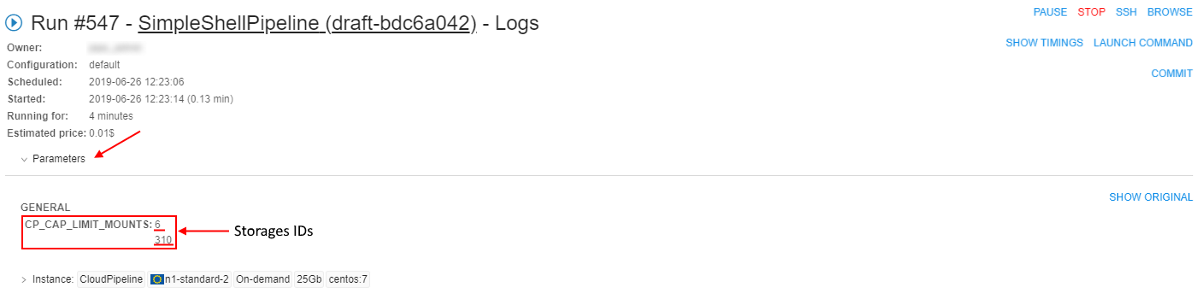
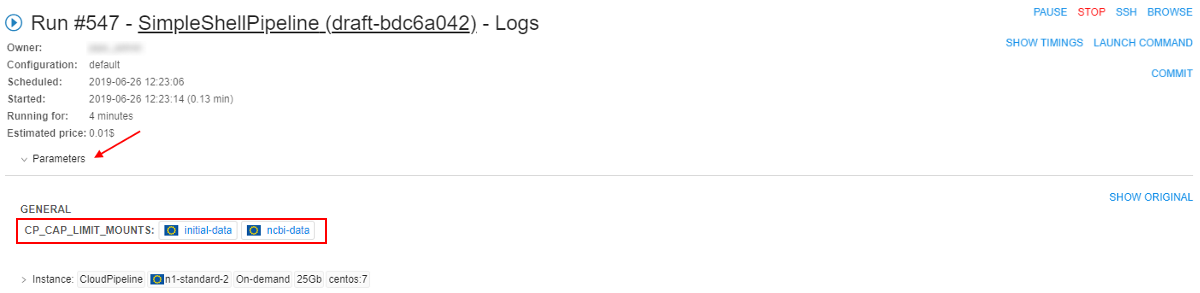
Updates for 'Limit mounts' were added into RN and docs

Changed region(s): [[0.0, 0.6758, 0.2775, 0.8601]]

diff --git a/docs/md/release_notes/v.0.17/v.0.17_-_Release_notes.md b/docs/md/release_notes/v.0.17/v.0.17_-_Release_notes.md
@@ -8,6 +8,7 @@
 - [Export custom user's attributes](#export-custom-users-attributes)
 - [User management and export in read-only mode](#user-management-and-export-in-read-only-mode)
 - ["All pipelines" and "All storages" repositories](#all-pipelines-and-all-storages-repositories)
+- [Updates of "Limit mounts" for object storages](#updates-of-limit-mounts-for-object-storages)
 
 ***
 
@@ -327,6 +328,41 @@ In the current version, such ability was implemented:
     - _additionally_ for storages, **Cloud Region**/**Provider** icons for multi-provider deployments
 - if the user clicks any object in the list - its regular page is being opened
 - for each "repository", there is a search field for the quick search over objects list
+
+## Updates of "Limit mounts" for object storages
+
+### Displaying of the `CP_CAP_LIMIT_MOUNTS` in a user-friendly manner
+
+Previously, **Cloud Pipeline** displayed the run-enabled data storages (selected via ["Limit mounts"](../v.0.15/v.0.15_-_Release_notes.md#limit-mounted-storages) feature before the launch) as a list of IDs at the **Run logs** page (as the **`CP_CAP_LIMIT_MOUNTS`** parameter).  
+
+In the current version, this viewing was changed to more "friendly" for users:
+
+- The data storage names are being displayed instead of the IDs
+- Showing names are hyperlinks, pointing to the data storage in the **Cloud Pipeline** GUI
+- "Sensitive" storages are being highlighted appropriately
+
+![CP_v.0.17_ReleaseNotes](attachments/RN017_LimitMountsNames_1.png)
+
+See details [here](../../manual/06_Manage_Pipeline/6.1._Create_and_configure_pipeline.md#example-limit-mounted-storages).
+
+### Warning in case of a risk of `OOM` due to the number of the object storage mounts
+
+If the user has 100+ object storages available - they all are mounted to the jobs, by default. When using rather small nodes - this leads to the `OOM` errors, as the 100+ mount processes may oversubscribe the memory.  
+Even if the memory consumption will be greatly optmized - the user may still face such issues, if the number of object storages grow.  
+So in the current version, a sort of hard-limit was implemented to warn the user if there is risk of `OOM`.
+
+A new **System preference** is introduced - **`storage.mounts.per.gb.ratio`** (_int_).  
+This preference allows to specify the "safe" number of storages per Gb of `RAM` (by default, it is `5` - i.e. "5 storages per each Gb of `RAM`").
+
+When launching a job - the user's available object storages count is being calculated and checked that this count does not exceed the selected instance type `RAM` multiplied by the **`storage.mounts.per.gb.ratio`**.  
+If it's exceeded - the user is being warned with the following wording and asked to reduce a number of mounts via the **Limit mounts** feature, e.g.:  
+    ![CP_v.0.17_ReleaseNotes](attachments/RN017_LimitMountsWarn_1.png)
+
+**_Note_**:
+
+- Warning does not prohibit the run launching, user can start it at his own discretion changing nothing.
+- If the **`storage.mounts.per.gb.ratio`** is not set - no checks are being performed, no warning appears.
+- Before the launch, only the _object storages_ count is being calculated, _file mounts_ do not introduce this limitation.
 
 ***
 

diff --git a/docs/md/manual/06_Manage_Pipeline/6.1._Create_and_configure_pipeline.md b/docs/md/manual/06_Manage_Pipeline/6.1._Create_and_configure_pipeline.md
@@ -269,7 +269,7 @@ To limit the number of data storages being mounted to a specific pipeline run:
     ![CP_CreateAndConfigurePipeline](attachments/CreateAndConfigurePipeline_43.png)
 10. At the **Run logs** page expand the "Parameters" section:  
     ![CP_CreateAndConfigurePipeline](attachments/CreateAndConfigurePipeline_44.png)  
-    Here you can see IDs of the storages selected at step 5
+    Here you can see a list of datastorages that will be mounted to the job.
 11. Wait until the **SSH** hyperlink will appear in the upper-right corner, click it.  
     On the opened tab specify the command `ls cloud-data/` and then press "Enter" key:  
     ![CP_CreateAndConfigurePipeline](attachments/CreateAndConfigurePipeline_45.png)  
